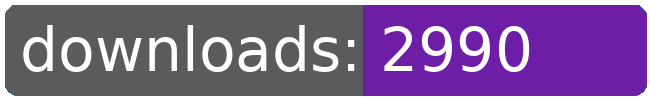
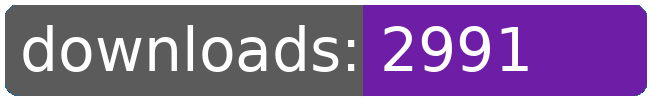
dl log written

Changed region(s): [[0.7692, 0.24, 0.8308, 0.72]]

diff --git a/README.md b/README.md
@@ -197,8 +197,8 @@
 		<td>2950</td>
 		<td>2967</td>
 		<td>2982</td>
-		<td>2990</td>
-		<td>+ 8</td>
+		<td>2991</td>
+		<td>+ 9</td>
 	</tr>
 	<tr>
 		<td>reduce.requiredcrew</td>
@@ -274,8 +274,8 @@
 		<td></td>
 		<td></td>
 		<td></td>
-		<td>57042</td>
-		<td>160</td>
+		<td>57043</td>
+		<td>161</td>
 	</tr>
 </table>
 </sub></sup>
@@ -388,8 +388,8 @@
 		<td>2950</td>
 		<td>2967</td>
 		<td>2982</td>
-		<td>2990</td>
-		<td>+ 8</td>
+		<td>2991</td>
+		<td>+ 9</td>
 	</tr>
 	<tr>
 		<td>obtainheron</td>
@@ -553,8 +553,8 @@
 		<td></td>
 		<td></td>
 		<td></td>
-		<td>57042</td>
-		<td>160</td>
+		<td>57043</td>
+		<td>161</td>
 	</tr>
 </table>
 </sub></sup>
